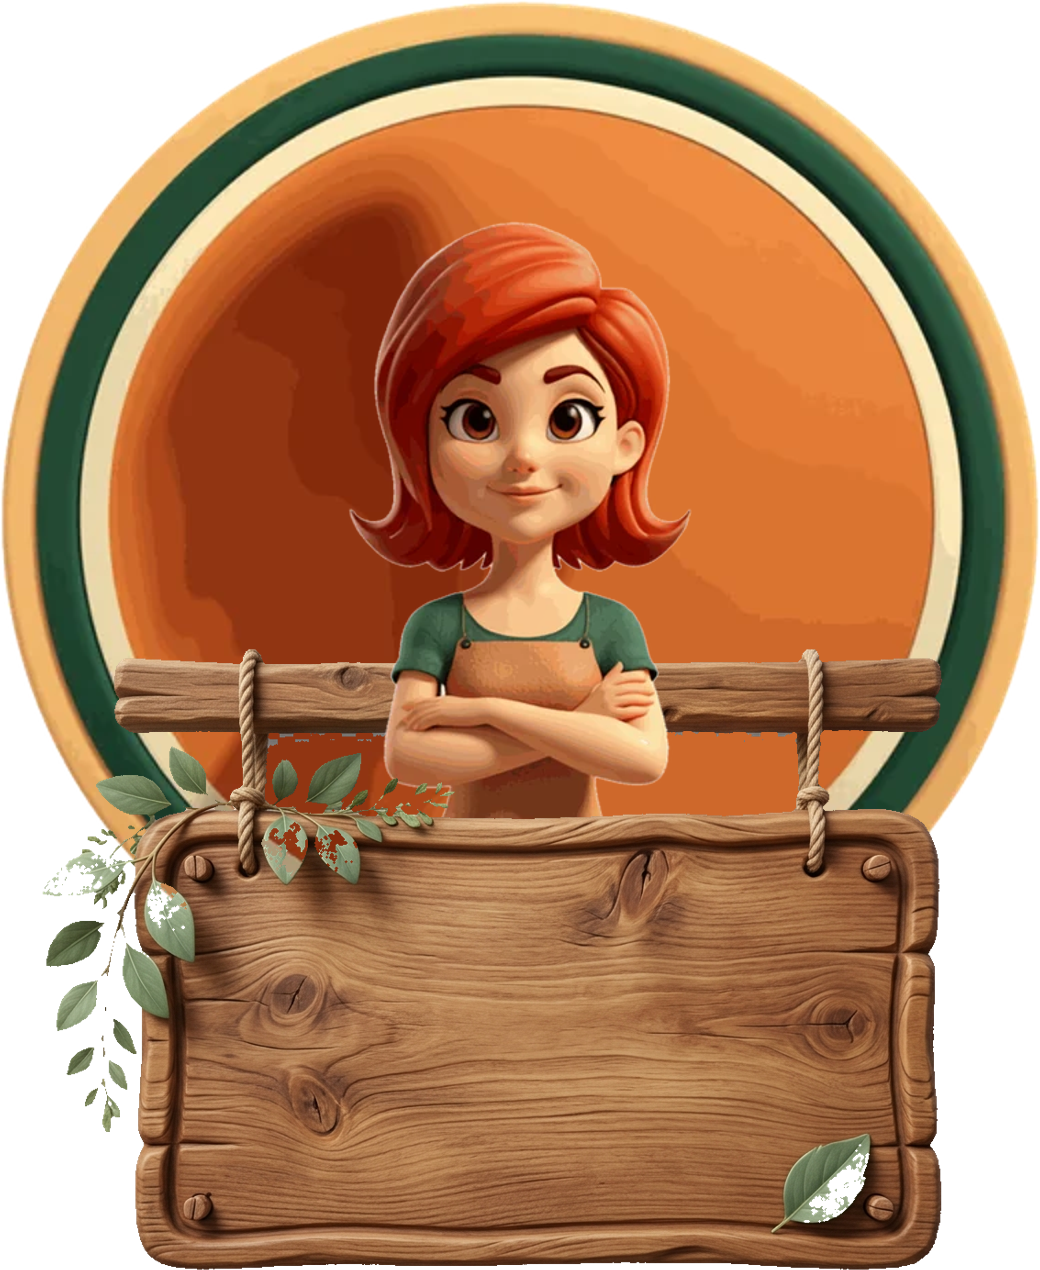
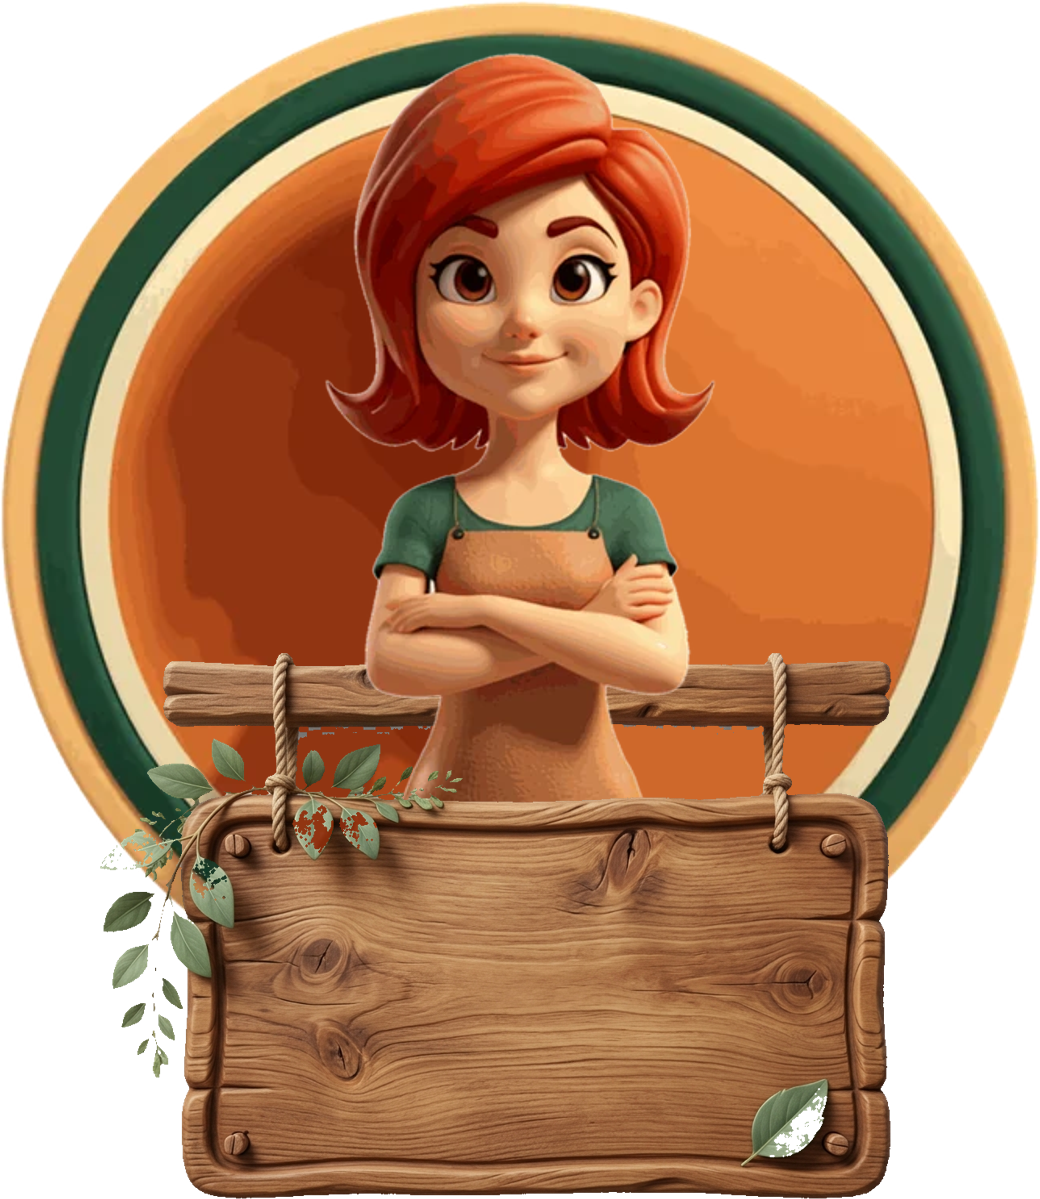
Rebalance emblem: larger girl to the top ring, slimmer board, bigger wordmark

diff --git a/namit-gid-site/index.html b/namit-gid-site/index.html
@@ -146,8 +146,8 @@ header.hero{
   animation:emblemFloat 6.5s ease-in-out infinite}
 @keyframes emblemFloat{0%,100%{transform:translateY(0)}50%{transform:translateY(-7px)}}
 .emblem-img{display:block;width:100%;height:auto;filter:drop-shadow(0 18px 22px rgba(38,52,47,.24))}
-.wordmark{position:absolute;left:54%;top:82%;transform:translate(-50%,-50%);z-index:2;
-  font-family:var(--ff-display);font-weight:400;margin:0;line-height:.82;font-size:11cqw;
+.wordmark{position:absolute;left:52%;top:78.5%;transform:translate(-50%,-50%);z-index:2;
+  font-family:var(--ff-display);font-weight:400;margin:0;line-height:.82;font-size:14cqw;
   display:inline-flex;flex-direction:column;align-items:flex-start;cursor:pointer}
 .wordmark em{font-style:normal}
 .wm-namit{display:flex;color:#f7f0e3;text-shadow:0 2px 3px rgba(38,20,8,.45)}
@@ -688,7 +688,7 @@ footer .tiny{width:100%;font-size:.72rem;letter-spacing:.14em;opacity:.6;border-
     <svg width="0" height="0" style="position:absolute" aria-hidden="true"><defs><path id="badgePath" d="M50,50 m-36,0 a36,36 0 1,1 72,0 a36,36 0 1,1 -72,0"/></defs></svg>
     <span class="eyebrow">Filipino home cooking · Toronto</span>
     <div class="emblem">
-      <img class="emblem-img" src="images/emblem.png" alt="Namit gid — the cook behind the sign" width="1040" height="1270">
+      <img class="emblem-img" src="images/emblem.png" alt="Namit gid — the cook behind the sign" width="1040" height="1199">
       <h1 class="wordmark" id="heroTitle" role="button" tabindex="0" aria-expanded="false" aria-controls="heroStory" title="Tap to read the story" aria-label="Namit gid">
         <span class="wm-namit" aria-hidden="true">Nam<span class="wm-i">i</span>t</span>
         <span class="wm-gid" aria-hidden="true">g<span class="wm-i">i</span>d</span>
